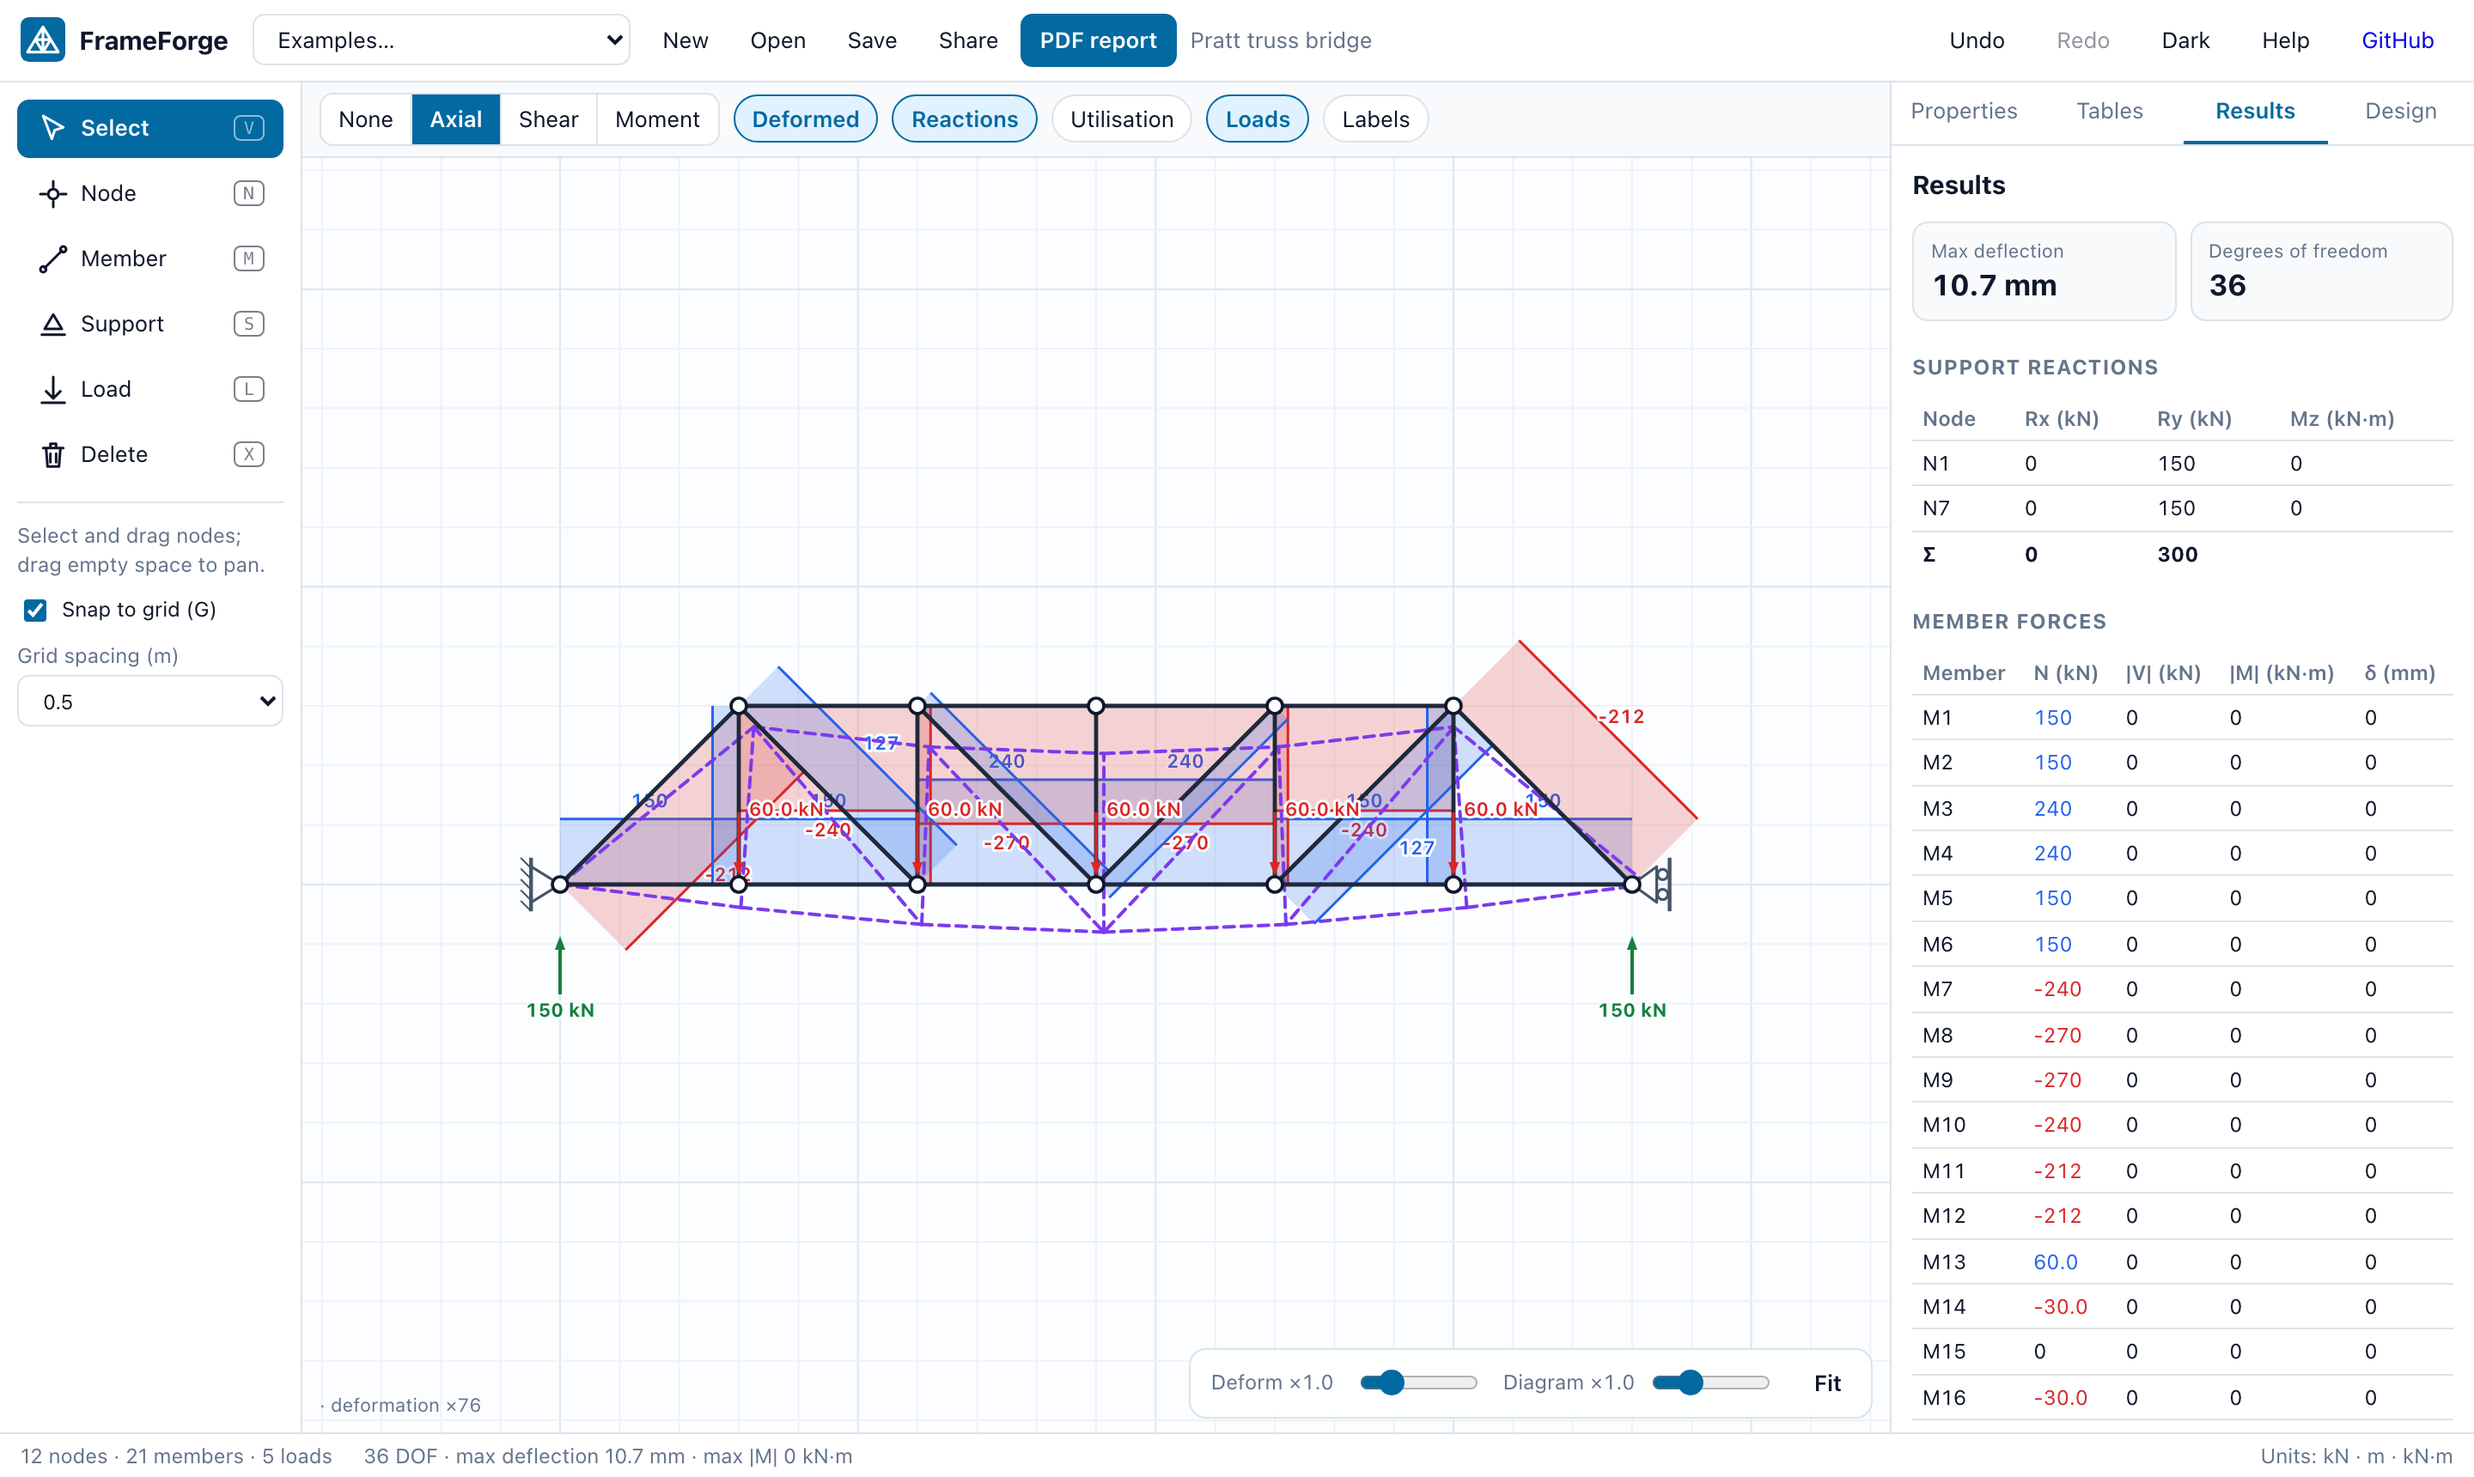
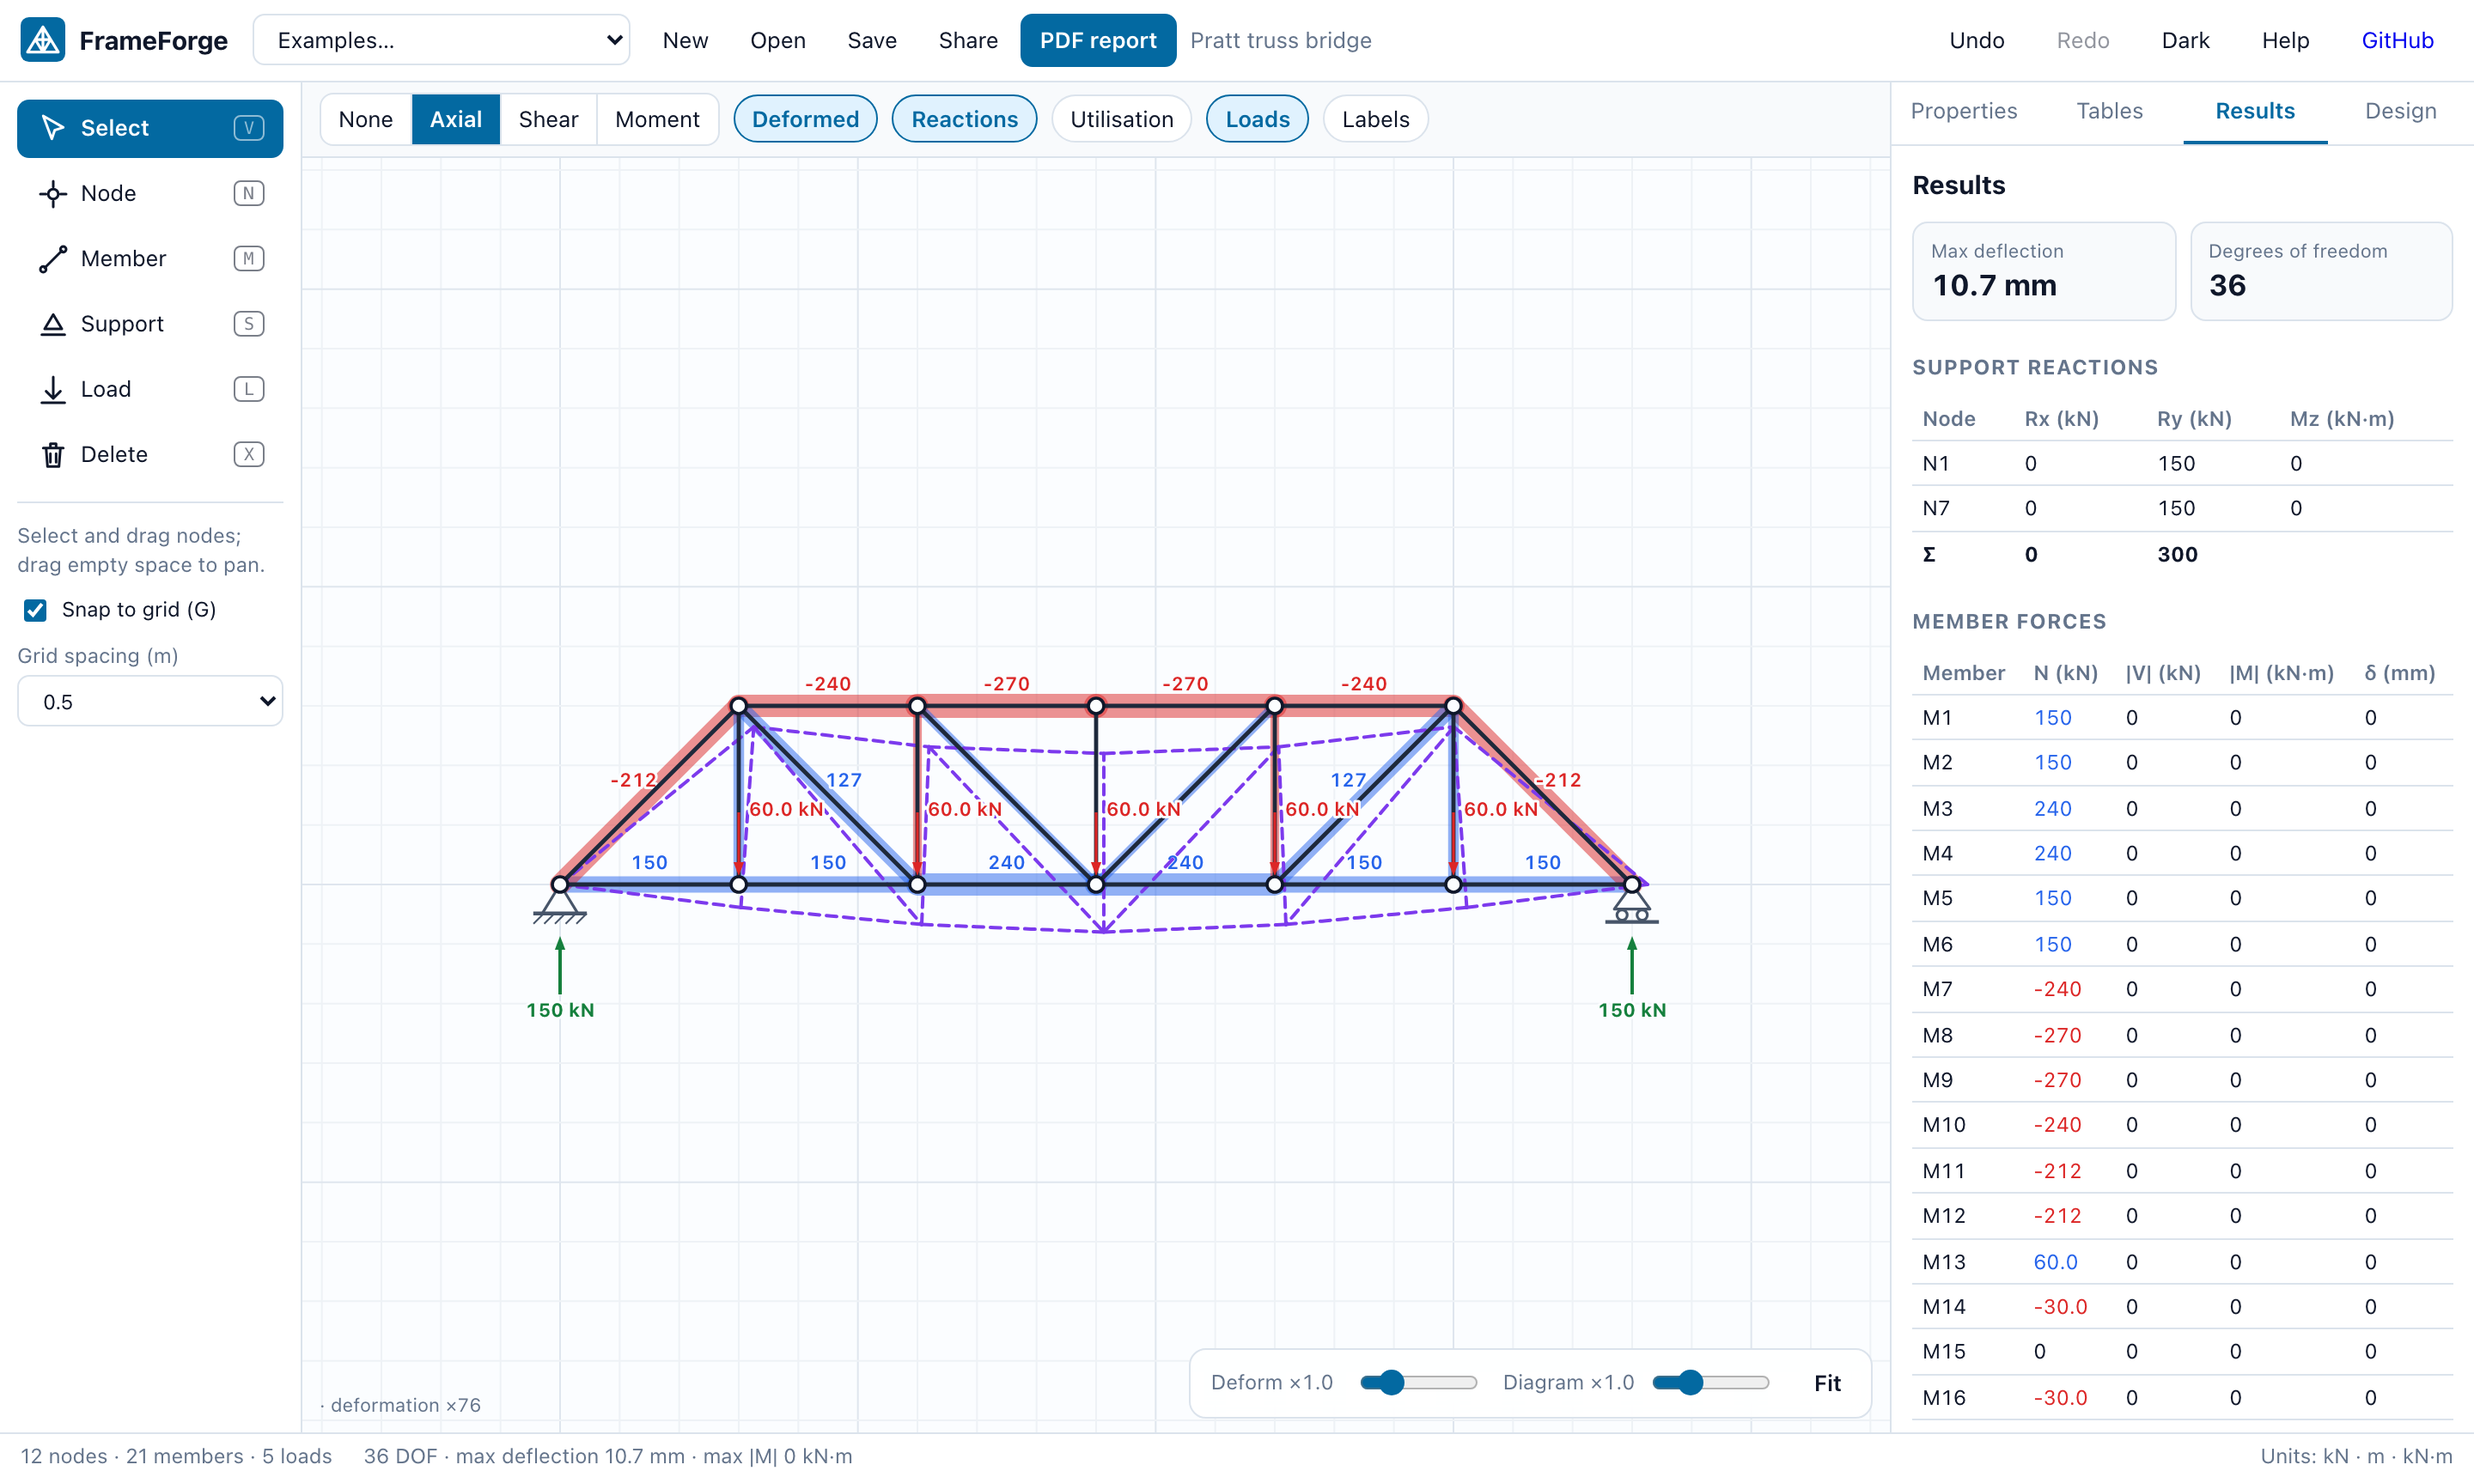
fix(ui): readable truss axial view, upright pin and roller supports

Changed region(s): [[0.1875, 0.4314, 0.6875, 0.6471]]

diff --git a/src/ui/canvas/ResultsLayer.tsx b/src/ui/canvas/ResultsLayer.tsx
@@ -56,23 +56,57 @@ function Diagram({
 
   const outline = stations.map((s) => screen(s.x, ordinate(s)));
   const polygon = [screen(0, 0), ...outline, screen(member.length, 0)];
+
   const mean = stations.reduce((sum, s) => sum + s[kind], 0) / stations.length;
   const signClass = kind === 'N' ? (mean >= 0 ? 'tension' : 'compression') : '';
+  const first = stations[0];
+  const last = stations[stations.length - 1];
+  const constant = stations.every(
+    (s) => Math.abs(s[kind] - first[kind]) < 1e-6 * Math.max(peak, 1e-9),
+  );
+
+  // A constant axial force (every truss member) reads best as the member itself, coloured by
+  // sign and weighted by magnitude; offset bands would overlap each other in a truss.
+  if (kind === 'N' && constant) {
+    const a = screen(0, 0);
+    const b = screen(member.length, 0);
+    const value = first.N;
+    const mid = screen(member.length / 2, 0);
+    const len = Math.hypot(b[0] - a[0], b[1] - a[1]) || 1;
+    const nx = -(b[1] - a[1]) / len;
+    const ny = (b[0] - a[0]) / len;
+    const side = ny > 0 ? -1 : 1;
+    return (
+      <g className={`diagram diagram-N ${signClass}`}>
+        <line
+          className="axial-bar"
+          x1={a[0]}
+          y1={a[1]}
+          x2={b[0]}
+          y2={b[1]}
+          strokeWidth={4 + 10 * (Math.abs(value) / peak)}
+        />
+        {Math.abs(value) >= labelThreshold * peak && (
+          <text
+            className="diagram-label"
+            x={mid[0] + nx * side * 13}
+            y={mid[1] + ny * side * 13 + 4}
+            textAnchor="middle"
+          >
+            {fmt(value)}
+          </text>
+        )}
+      </g>
+    );
+  }
 
   // Label the ends and the extremes, skipping negligible values and near-duplicates.
   const candidates: Station[] = [];
-  const first = stations[0];
-  const last = stations[stations.length - 1];
-  const constant = Math.abs(first[kind] - last[kind]) < 1e-6 * Math.max(peak, 1e-9);
-  if (kind === 'N' && constant) {
-    candidates.push(stations[Math.floor(stations.length / 2)]);
-  } else {
-    candidates.push(first, last);
-    if (kind === 'M') {
-      const hi = stations.reduce((a, b) => (b.M > a.M ? b : a));
-      const lo = stations.reduce((a, b) => (b.M < a.M ? b : a));
-      candidates.push(hi, lo);
-    }
+  candidates.push(first, last);
+  if (kind === 'M') {
+    const hi = stations.reduce((a, b) => (b.M > a.M ? b : a));
+    const lo = stations.reduce((a, b) => (b.M < a.M ? b : a));
+    candidates.push(hi, lo);
   }
   const labels: Station[] = [];
   for (const s of candidates) {

diff --git a/src/io/report.ts b/src/io/report.ts
@@ -172,6 +172,31 @@ function drawFigure(
       const colour = kind === 'N' && mean < 0 ? COMPRESSION : DIAGRAM[kind];
       doc.setFillColor(...colour);
       doc.setDrawColor(...colour);
+      const s0 = r.stations[0];
+      if (
+        kind === 'N' &&
+        r.stations.every((s) => Math.abs(s.N - s0.N) < 1e-6 * Math.max(peaks.N, 1e-9))
+      ) {
+        // Constant axial force: draw the member itself, weighted by the force.
+        const p1 = along(r, start, 0, 0);
+        const p2 = along(r, start, r.length, 0);
+        doc.setGState(doc.GState({ opacity: 0.45 }));
+        doc.setLineWidth(0.8 + 2 * (Math.abs(s0.N) / peaks.N));
+        doc.line(p1[0], p1[1], p2[0], p2[1]);
+        doc.setGState(doc.GState({ opacity: 1 }));
+        if (Math.abs(s0.N) >= (dense ? 0.3 : 0.03) * peaks.N) {
+          const len = Math.hypot(p2[0] - p1[0], p2[1] - p1[1]) || 1;
+          const side = (p2[0] - p1[0]) / len > 0 ? -1 : 1;
+          doc.setTextColor(...colour);
+          doc.text(
+            num(s0.N),
+            (p1[0] + p2[0]) / 2 - ((p2[1] - p1[1]) / len) * side * 2.6,
+            (p1[1] + p2[1]) / 2 + ((p2[0] - p1[0]) / len) * side * 2.6 + 0.8,
+            { align: 'center' },
+          );
+        }
+        continue;
+      }
       doc.setGState(doc.GState({ opacity: 0.18 }));
       polygon(doc, [along(r, start, 0, 0), ...outline, along(r, start, r.length, 0)], 'F');
       doc.setGState(doc.GState({ opacity: 1 }));
@@ -181,16 +206,14 @@ function drawFigure(
       const first = r.stations[0];
       const last = r.stations[r.stations.length - 1];
       const candidates: Station[] =
-        kind === 'N' && Math.abs(first.N - last.N) < 1e-6 * Math.max(peaks.N, 1e-9)
-          ? [r.stations[Math.floor(r.stations.length / 2)]]
-          : kind === 'M'
-            ? [
-                first,
-                last,
-                r.stations.reduce((p, q) => (q.M > p.M ? q : p)),
-                r.stations.reduce((p, q) => (q.M < p.M ? q : p)),
-              ]
-            : [first, last];
+        kind === 'M'
+          ? [
+              first,
+              last,
+              r.stations.reduce((p, q) => (q.M > p.M ? q : p)),
+              r.stations.reduce((p, q) => (q.M < p.M ? q : p)),
+            ]
+          : [first, last];
       const shown: Station[] = [];
       doc.setTextColor(...colour);
       for (const s of candidates) {

diff --git a/src/ui/canvas/ModelLayer.tsx b/src/ui/canvas/ModelLayer.tsx
@@ -272,7 +272,8 @@ export const ModelLayer = memo(function ModelLayer({
             key={s.node}
             at={toScreen(view, node.x, node.y)}
             kind={s.kind}
-            angle={supportAngle(node, project)}
+            // Only a fixed support turns to face its member; pins and rollers stay upright.
+            angle={s.kind === 'fixed' ? supportAngle(node, project) : 0}
           />
         );
       })}

diff --git a/src/ui/styles.css b/src/ui/styles.css
@@ -1366,3 +1366,16 @@ button.icon {
     width: 56px;
   }
 }
+
+.axial-bar {
+  stroke-linecap: round;
+  stroke-opacity: 0.5;
+}
+
+.diagram-N.tension .axial-bar {
+  stroke: var(--tension);
+}
+
+.diagram-N.compression .axial-bar {
+  stroke: var(--compression);
+}
